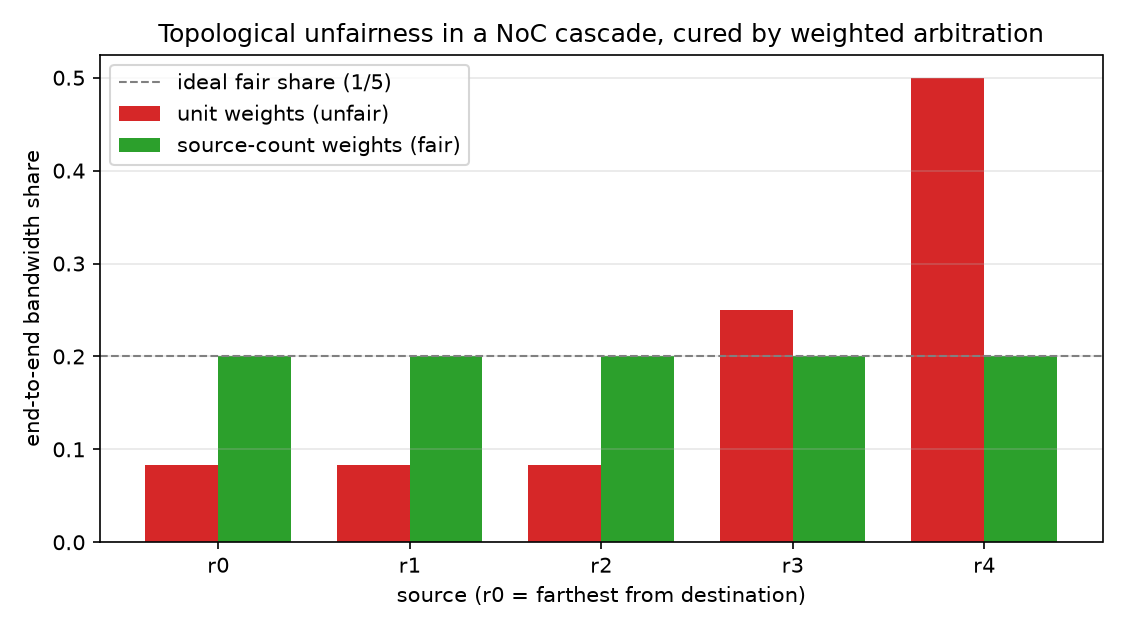
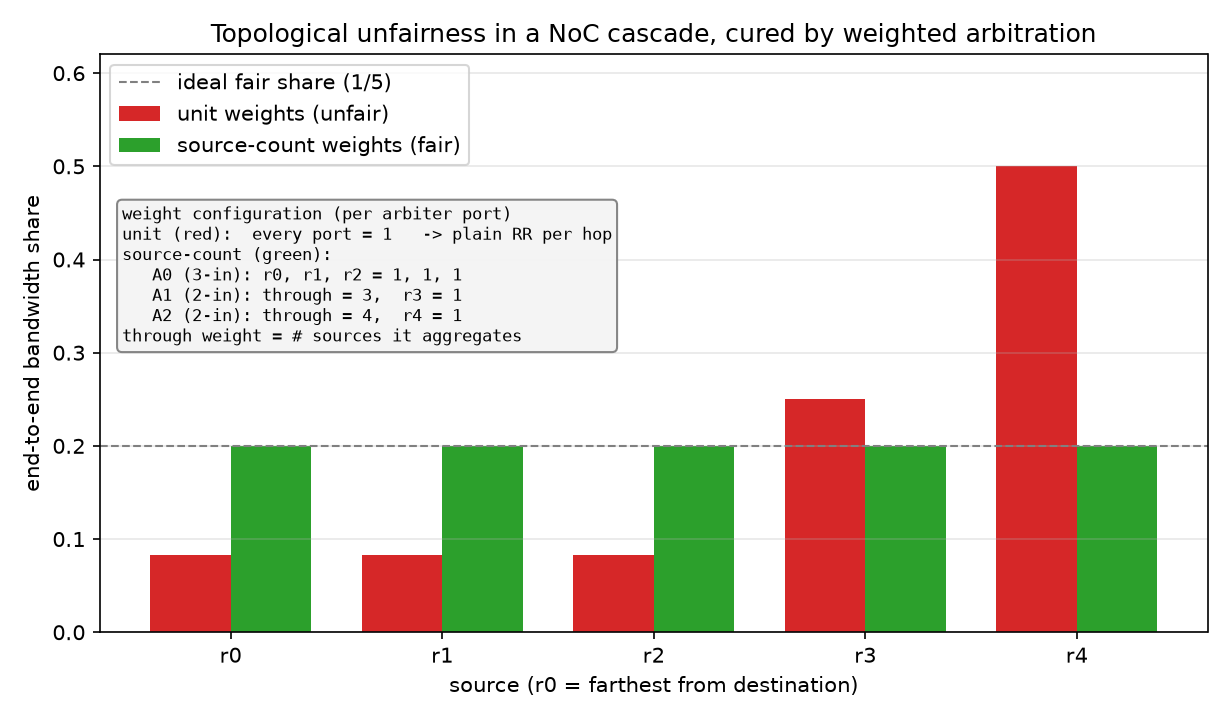
Annotate fig2 with the per-hop weight configuration
Add a weight-config box to the topological figure showing that fairness comes from
the through-port weights (A1=3, A2=4 = #sources aggregated), not per-source weights
(every source injects with local weight 1).

diff --git a/doc/plots/plot_arbiters.py b/doc/plots/plot_arbiters.py
@@ -96,15 +96,29 @@ src    = ["r0", "r1", "r2", "r3", "r4"]
 before = [1/12, 1/12, 1/12, 1/4, 1/2]
 after  = [0.2, 0.2, 0.2, 0.2, 0.2]
 x = range(len(src)); w = 0.38
-fig, ax = plt.subplots(figsize=(7.5, 4.2))
+fig, ax = plt.subplots(figsize=(8.2, 4.8))
 ax.bar([i - w/2 for i in x], before, w, label="unit weights (unfair)", color="tab:red")
 ax.bar([i + w/2 for i in x], after,  w, label="source-count weights (fair)", color="tab:green")
 ax.axhline(0.2, ls="--", color="gray", lw=1, label="ideal fair share (1/5)")
 ax.set_xticks(list(x)); ax.set_xticklabels(src)
+ax.set_ylim(0, 0.62)
 ax.set_xlabel("source (r0 = farthest from destination)")
 ax.set_ylabel("end-to-end bandwidth share")
 ax.set_title("Topological unfairness in a NoC cascade, cured by weighted arbitration")
-ax.grid(True, axis="y", alpha=0.3); ax.legend()
+ax.grid(True, axis="y", alpha=0.3); ax.legend(loc="upper left")
+
+# The weights live on the arbiter *ports* (not the sources): every source injects with local
+# weight 1; fairness comes from weighting each through-port by the #sources it aggregates.
+cfg = ("weight configuration (per arbiter port)\n"
+       "unit (red):  every port = 1   -> plain RR per hop\n"
+       "source-count (green):\n"
+       "   A0 (3-in): r0, r1, r2 = 1, 1, 1\n"
+       "   A1 (2-in): through = 3,  r3 = 1\n"
+       "   A2 (2-in): through = 4,  r4 = 1\n"
+       "through weight = # sources it aggregates")
+ax.text(0.020, 0.74, cfg, transform=ax.transAxes, ha="left", va="top",
+        family="monospace", fontsize=8,
+        bbox=dict(boxstyle="round", facecolor="#f4f4f4", edgecolor="gray", alpha=0.95))
 save(fig, "fig2_topological_before_after.png")
 
 # =====================================================================================
